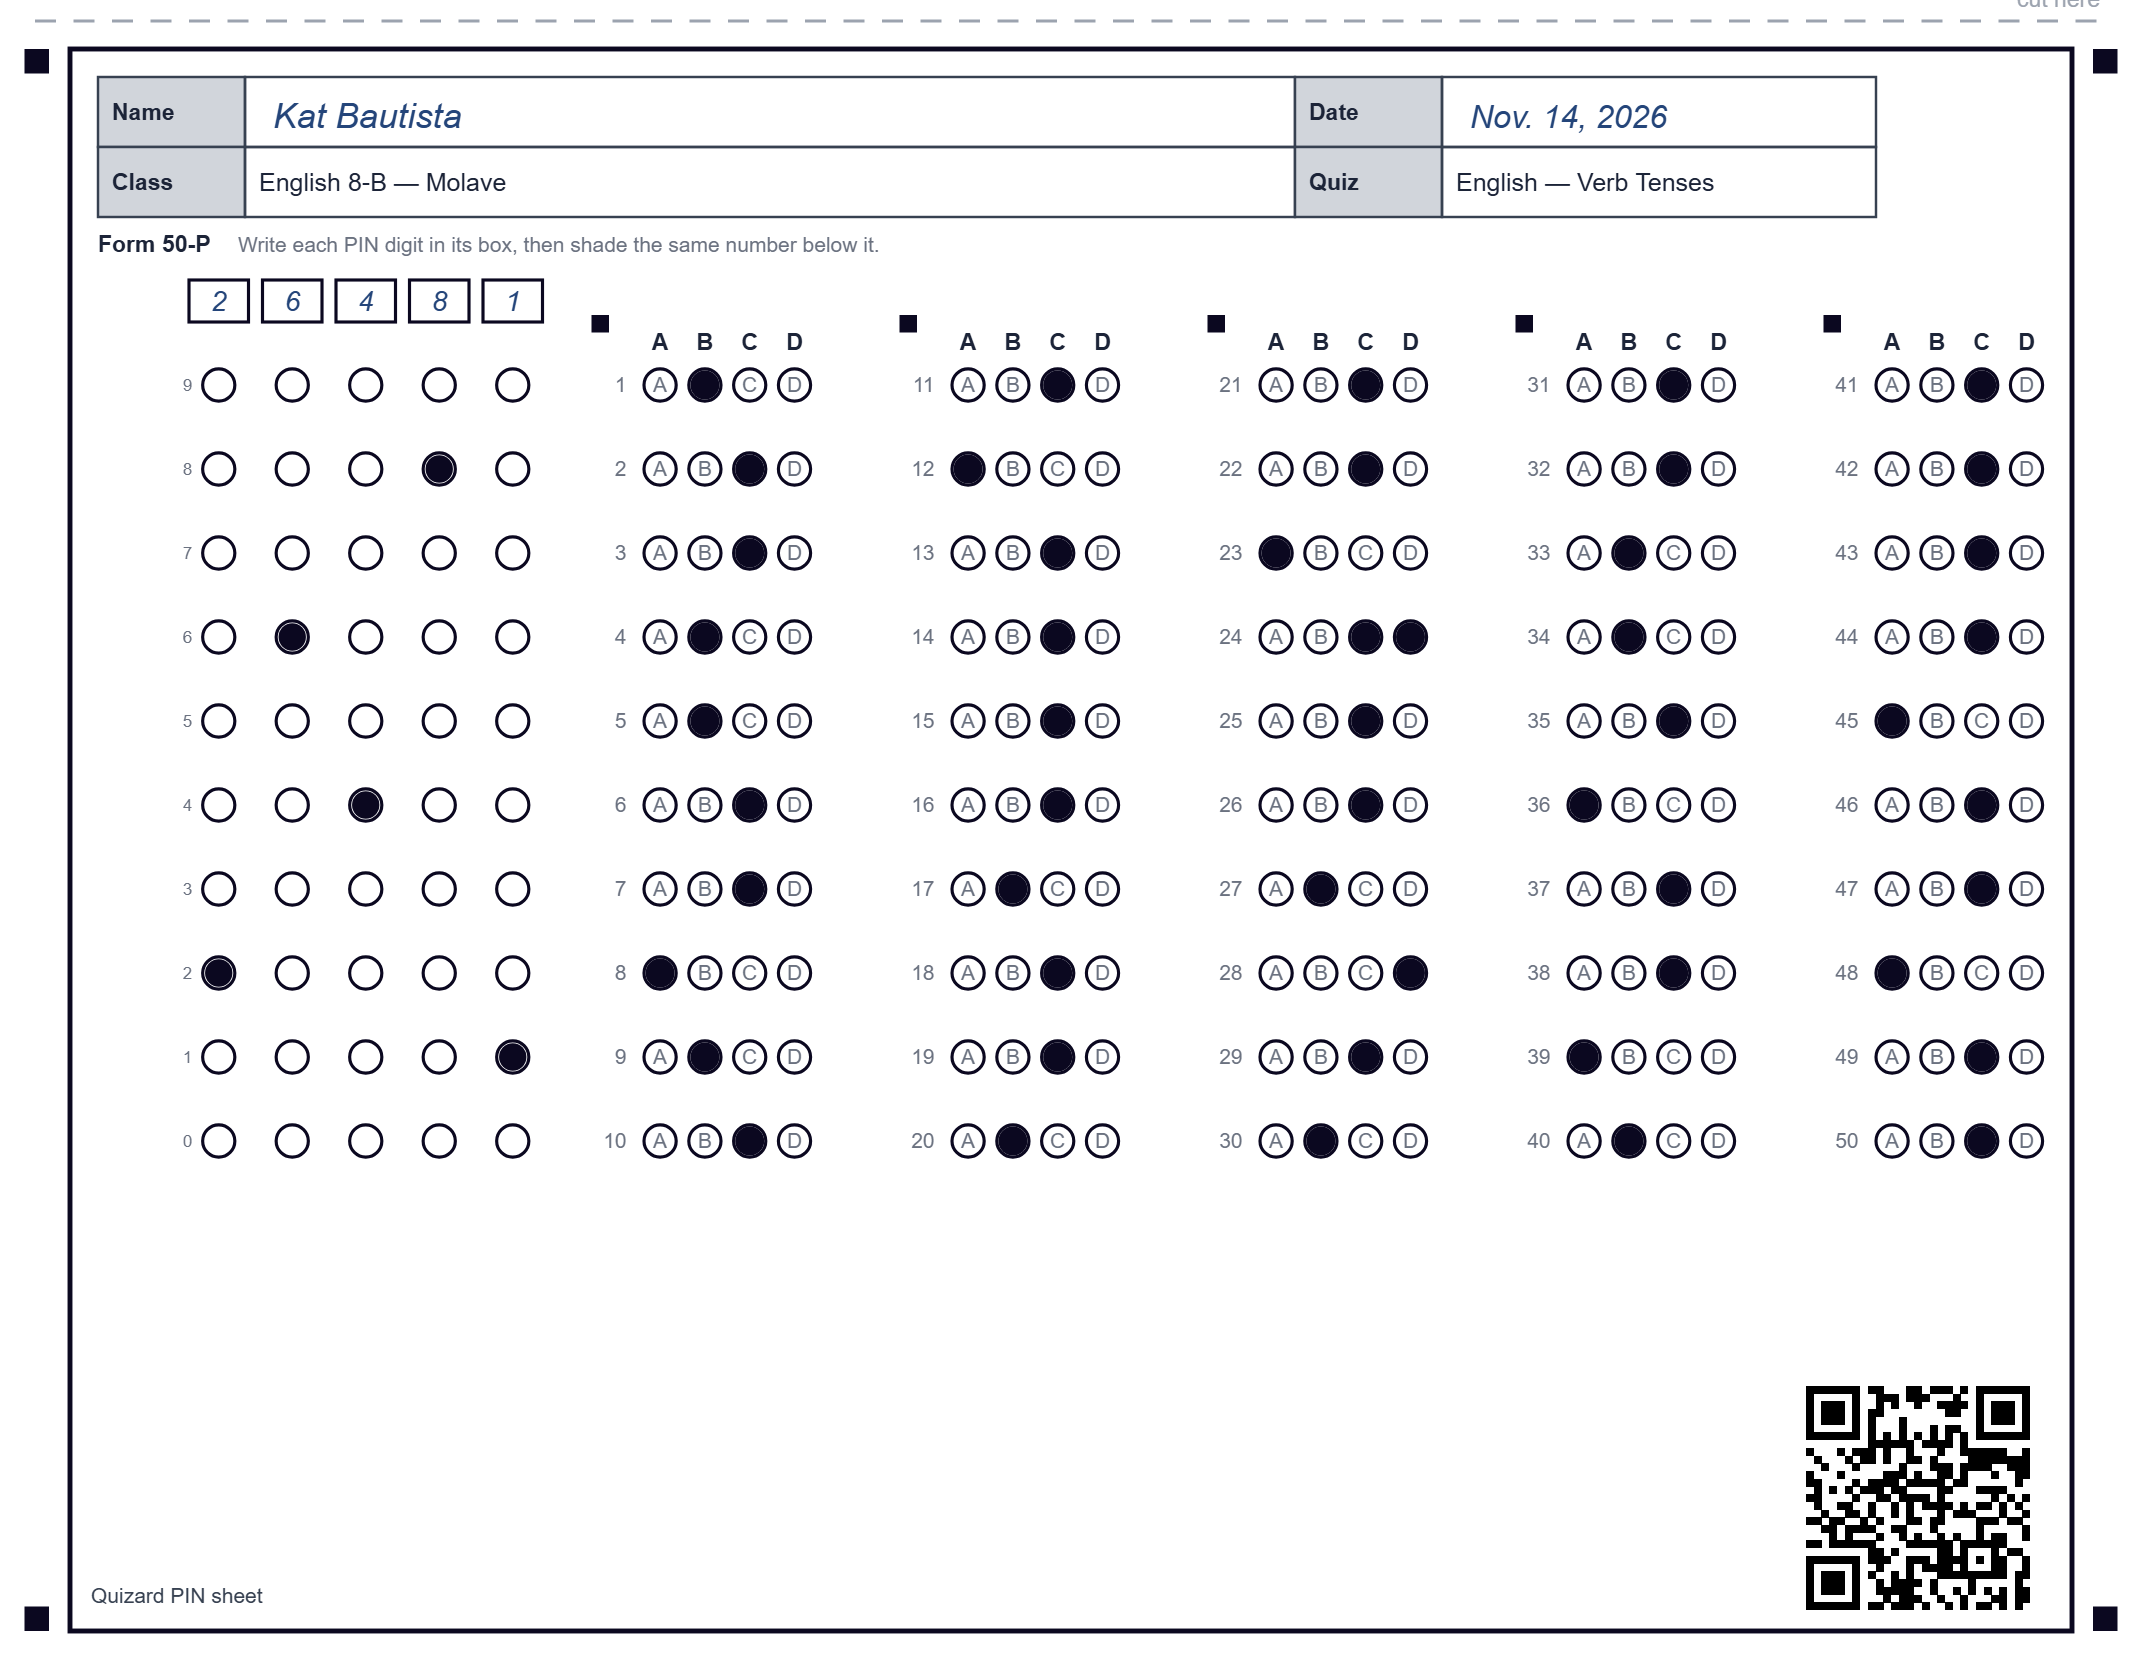
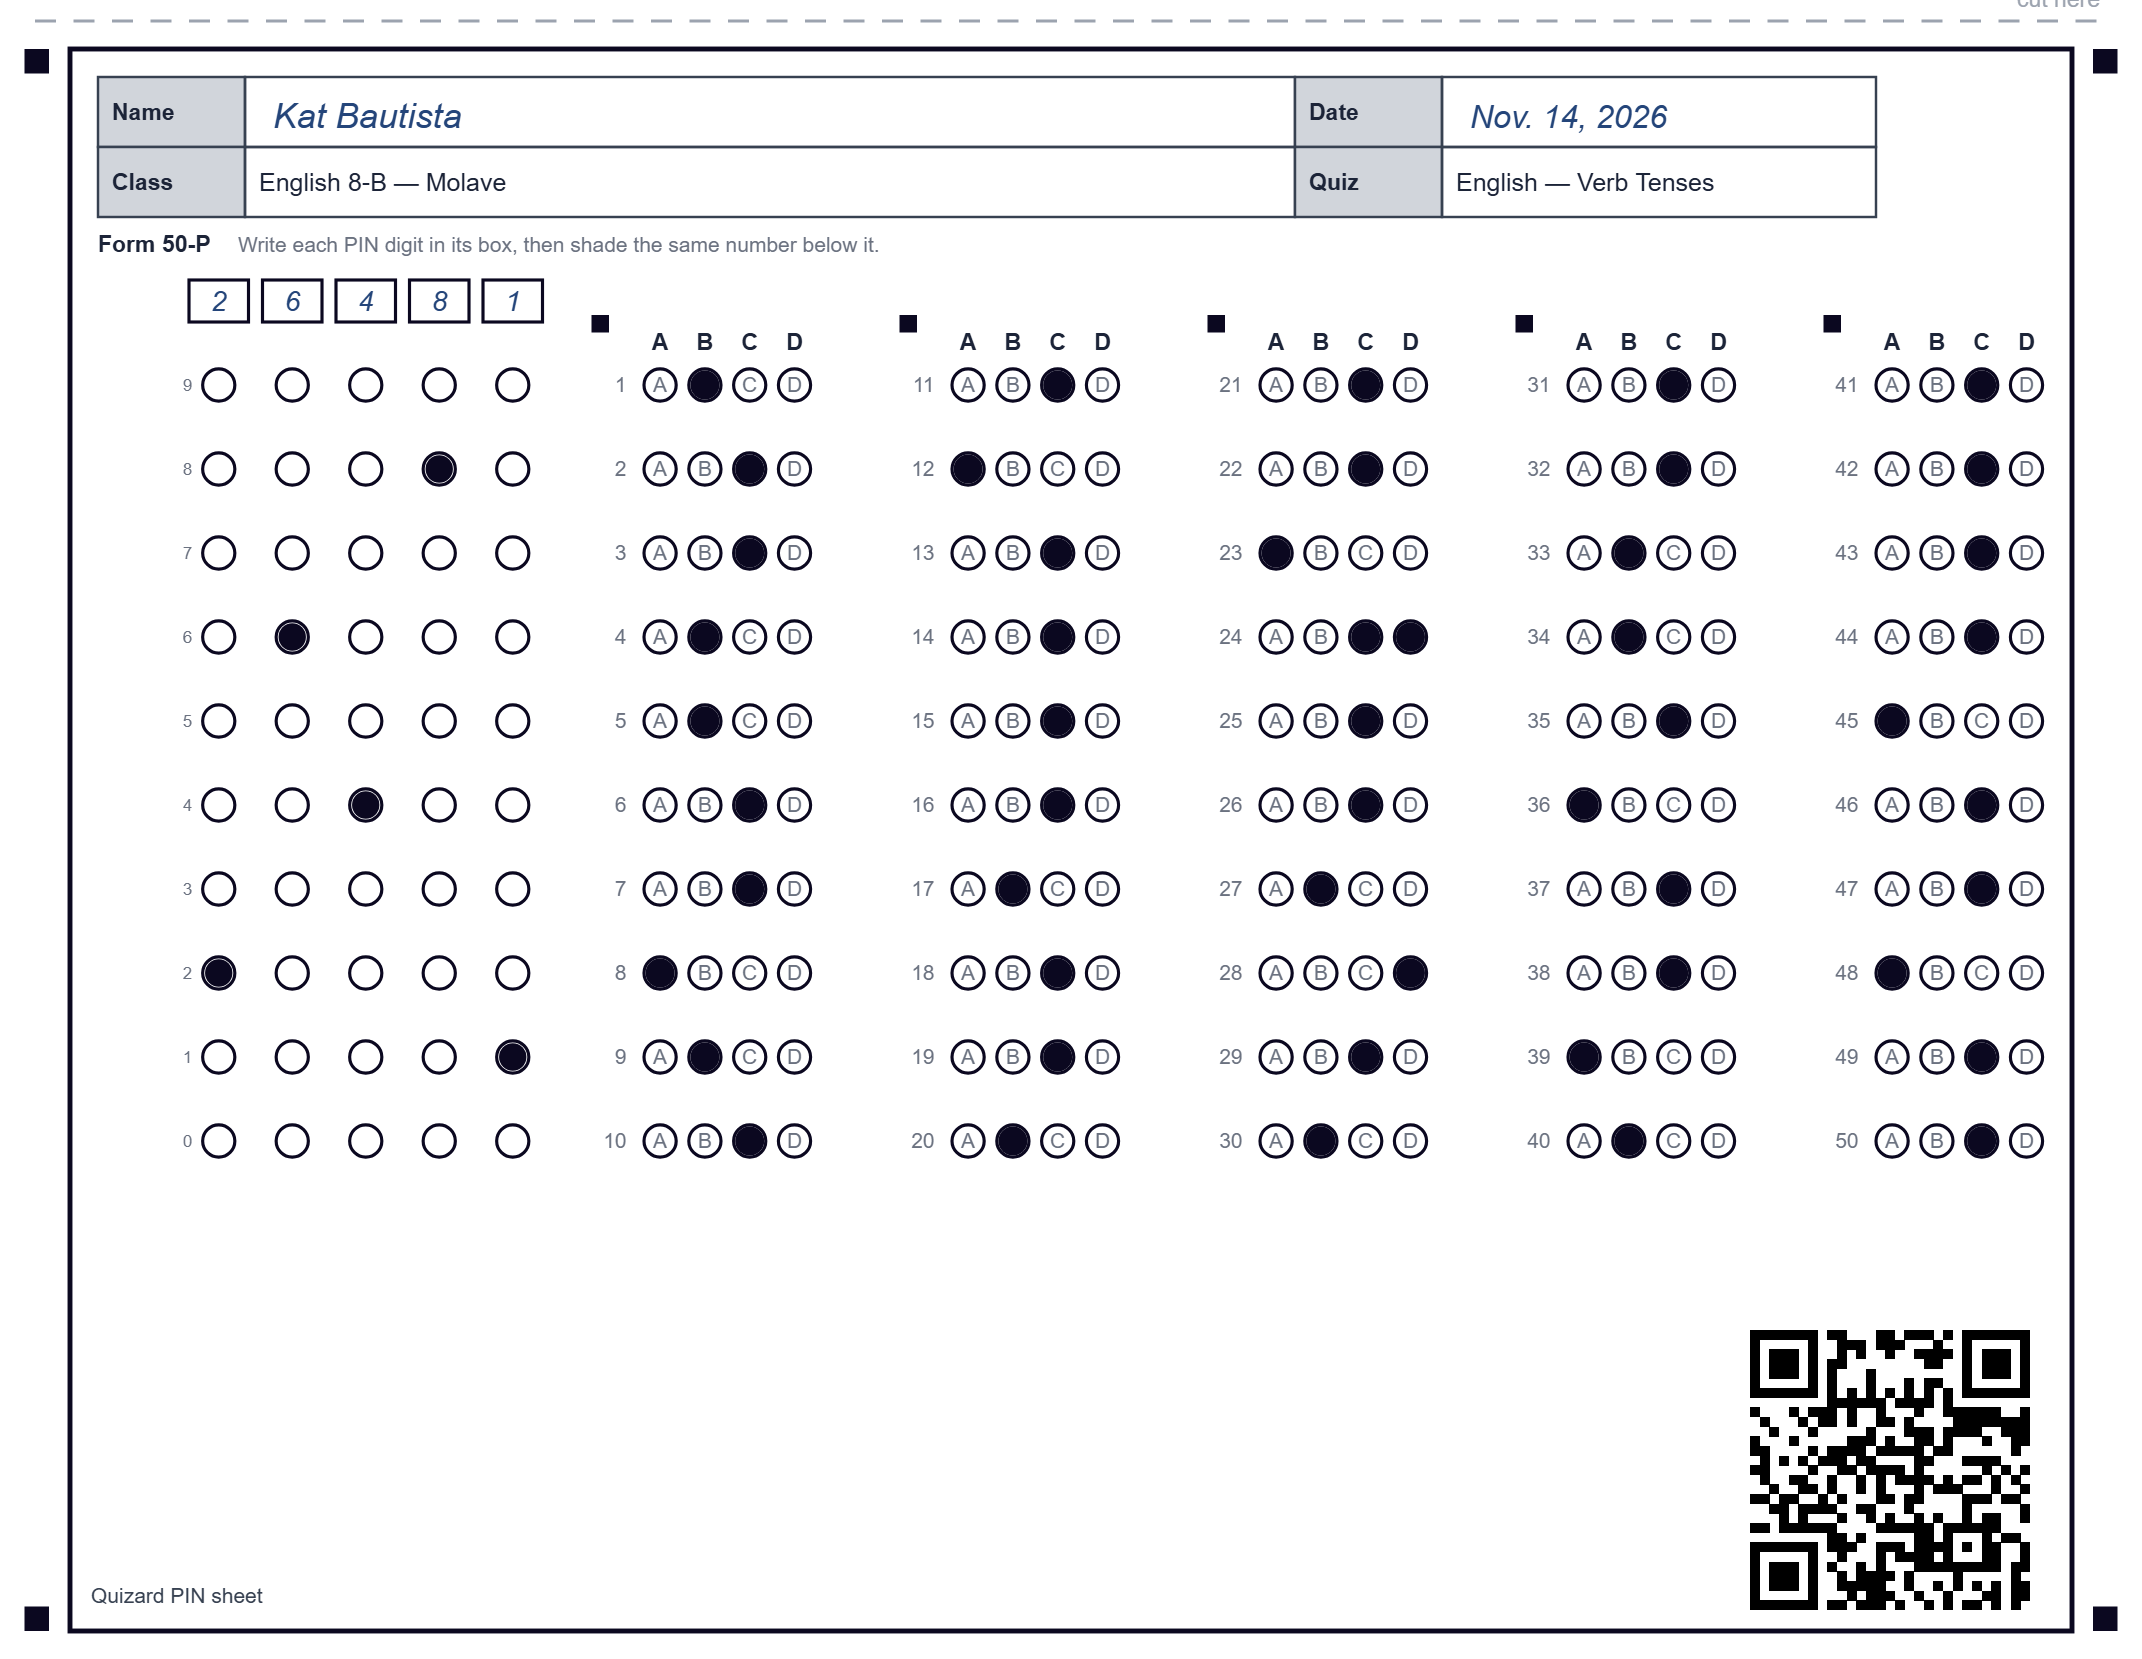
2.4.3: scanner locks at distance — sticky search decode while confirming, 80pt QR, 0.4% marker floor

Changed region(s): [[0.8011, 0.7993, 0.9552, 0.9837]]

diff --git a/src/app/pages/checking/checking.ts b/src/app/pages/checking/checking.ts
@@ -331,10 +331,12 @@ export class CheckingPage {
       // A small QR (the PIN half-sheet's code is ~10% of the sheet width)
       // drops under jsQR's ~2px-per-module floor once a far-framed sheet is
       // squeezed into the cheap 900px preview decode. When nothing has been
-      // seen for a moment, step up to a full-resolution search decode so
-      // distance can't hide a sheet — the extra cost only lands while the
-      // camera is pointed at nothing.
-      const search = this.liveAbsent >= LIVE_SCAN.searchAfterTicks;
+      // seen for a moment — or while a candidate is mid-confirmation — step
+      // up to a full-resolution search decode. The candidate case matters:
+      // one search hit resets `absent`, so falling straight back to the 900px
+      // preview would miss the next ticks and the confirmation counter could
+      // never reach 2 — the width must not oscillate under a confirming sheet.
+      const search = this.liveAbsent >= LIVE_SCAN.searchAfterTicks || this.liveHits > 0;
       let text: string | null = null;
       if (this.detector) {
         text = await this.detectWithDetector(video);

diff --git a/src/app/core/engine/omr.js b/src/app/core/engine/omr.js
@@ -91,11 +91,12 @@ export function findMarkerQuads(binary, width, height, expectedCenters) {
   const all = blobs(binary, width, height)
   const passes = (b, fillMin) => {
     const side = (b.bw + b.bh) / 2
-    // 0.5% floor: a half-sheet's 7pt markers are 1.14% of the sheet width, so
-    // a sheet framed at ~45% of the frame lands right at 0.5% — the old 0.8%
+    // 0.4% floor: a half-sheet's 7pt markers are 1.14% of the sheet width, so
+    // a sheet framed at ~35% of the frame lands right at 0.4% — the old 0.8%
     // floor rejected far-framed PIN sheets before the quad matcher could even
-    // look (the ratio + fill + expected-geometry checks do the real filtering).
-    return side >= maxSide * 0.005 && side <= maxSide * 0.08
+    // look (the ratio + fill + expected-geometry checks do the real filtering;
+    // text blobs die on fill ratio long before this floor matters).
+    return side >= maxSide * 0.004 && side <= maxSide * 0.08
       && b.bw / b.bh > 0.45 && b.bw / b.bh < 2.2 && b.fill >= fillMin
   }
   let cand = all.filter(b => passes(b, 0.85))

diff --git a/src/app/core/engine/sheet-spec.js b/src/app/core/engine/sheet-spec.js
@@ -287,12 +287,13 @@ export const PIN_SHEET = {
   letterR: 1.2, letterCap: 4.0,
   scanRadiusFrac: 0.85,
   marker: 7, markerGap: 6,
-  // QR sized for distance: the half-sheet's grid ends ~70pt above the frame
-  // bottom, so a 64pt code (10.5% of the sheet width — close to the Letter
+  // QR sized for distance: the half-sheet's grid ends ~57pt above the frame
+  // bottom, so an 80pt code (13% of the sheet width — beyond the Letter
   // sheet's 12.4%) fits clear of every bubble and still reads from across a
-  // room. The old 46pt code dropped under jsQR's ~2px-per-module floor once a
-  // far-framed sheet hit the live preview decode.
-  qrSize: 64, qrPadX: 12, qrPadY: 6,
+  // room. Small codes fall under jsQR's ~2px-per-module floor once a
+  // far-framed sheet — or one shown on a laptop screen — hits the preview
+  // decode; 80pt keeps the readable floor at ~30% of the camera frame.
+  qrSize: 80, qrPadX: 12, qrPadY: 6,
   cutY: 468,
 }
 

diff --git a/tests/pin-sheet.test.js b/tests/pin-sheet.test.js
@@ -204,9 +204,9 @@ describe('readPinSheet on synthetic photos', () => {
       frame[di] = small[si]; frame[di + 1] = small[si + 1]; frame[di + 2] = small[si + 2]
     }
     // the marker floor is the gate being tested: sheet ~48% -> marker ~7px,
-    // under the old 10.2px floor, over the new 6.4px one
+    // under the old 10.2px (0.8%) floor, over the current 0.4% one
     expect(PIN_SHEET.marker).toBeLessThan(VW * 0.008)
-    expect(PIN_SHEET.marker).toBeGreaterThanOrEqual(VW * 0.005)
+    expect(PIN_SHEET.marker).toBeGreaterThanOrEqual(VW * 0.004)
     const res = readPinSheet({ data: frame, width: VW, height: VH })
     expect(res.ok).toBe(true)
     expect(res.qr).toBe('QZ3:quiz-x')

diff --git a/src/app/pages/settings/settings.ts b/src/app/pages/settings/settings.ts
@@ -66,7 +66,7 @@ export class SettingsPage implements OnInit {
   usageLine = signal('');
 
   get showNudge() { return (!this.lastBackup || Date.now() - this.lastBackup > BACKUP_NUDGE_MS) && this.docCount > 0; }
-  get version() { return '2.4.2'; }
+  get version() { return '2.4.3'; }
   get theme() { return this.ui.theme; }
 
   // ── Cloud sync (sync-code locker) ──
